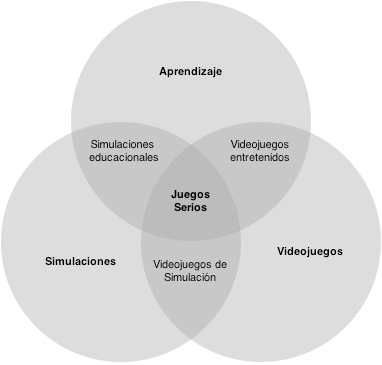
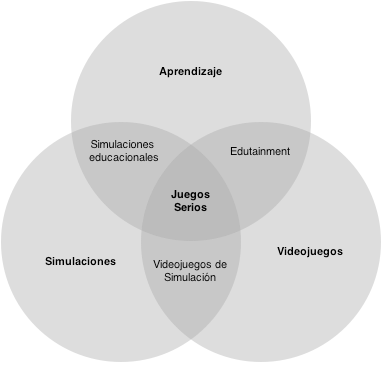
Correcciones solicitadas por el tutor al cap Juegos Serios

Changed region(s): [[0.6047, 0.3616, 0.7775, 0.4521]]

diff --git a/juegos_serios/corrientes_relacionadas.tex b/juegos_serios/corrientes_relacionadas.tex
@@ -14,24 +14,26 @@ como se observa en la figura~\ref{fig:corrientes_relacionadas}.
 \label{fig:corrientes_relacionadas}
 \end{figure}
 
-Cuando se utilizan aspectos de videojuegos con simulaciones, se obtienen videojuegos
-cuyo objetivo es entretener mientras son similares a la realidad, dentro de esta
+Cuando se utilizan aspectos de videojuegos con simulaciones, se obtienen videojuegos 
+similares a la realidad cuyo objetivo es entretener, dentro de esta
 categoría podemos encontrar juegos como \emph{Gran Turismo}; si mezclamos
 factores relacionados al aprendizaje y a las simulaciones se obtienen
 simulaciones sin interacción con el usuario que buscan mostrar o enseñar como se
-comportan distintos fenómenos físicos, sociales, etc.
+comportan distintos fenómenos físicos, sociales, etc. Una simulación educativa se 
+diferencia de un juego serio en que este último hace uso de las características y 
+tecnologías de un videojuego para enseñar algo específico. 
 
-Un simulación educativa se diferencia de un juego serio en que este último hace uso 
-de las características y tecnologías de un videojuego para enseñar algo específico. Los 
-\emph{Edutainment} pueden ser vistos como los predecesores de los juegos
-serios, los mismos son descritos en~\ref{sec:edutainment}.
+El uso de videojuegos junto con técnicas de aprendizaje da como resultado los 
+\emph{Edutainment}, estos pueden ser vistos como los predecesores de los juegos
+serios, los mismos son descritos en la sección~\ref{sec:edutainment}.
 
 %\observacion{Que hace que sea un juego serio y no una SE}
 
-Usualmente un videojuego tiene un conjunto de reglas que deben ser cumplidas para 
+
+Un juego serio tiene un conjunto de pasos que deben ser cumplidas para 
 que se considere que una partida fue jugada de manera correcta, lo que se traduce 
-en un buen desempeño del jugador, estas reglas suelen ser manejadas
-por un motor de reglas que se encarga de determinar el cumplimiento o no de las mismas.
+en un buen desempeño del jugador. Cada paso puede ser traducido a una regla
+y ser validadas por un motor de reglas. 
 
 \subsection{Simulaciones}
 
@@ -51,7 +53,7 @@ reglas hasta complejos entornos. La simulación demostró ser una herramienta mu
 encarar situaciones muy difíciles de representar en entornos completamente
 controlados y provee mecanismos para comprobar la efectividad de la herramienta. 
 
-Actualmente la simulación se utiliza más en el ámbito empresarial pues las
+Actualmente la simulación se utiliza mayormente en el ámbito empresarial pues las
 empresas son las más necesitadas de innovar en el ámbito de la enseñanza. Un
 ejemplo de esta necesidad se da, por ejemplo, en el entrenamiento de nuevos
 vendedores, es muy difícil enseñar a un vendedor como debe vender los productos
@@ -115,90 +117,43 @@ prácticas\cite{charsky:2010}.
 %\end{itemize}
 
 
-\subsection{Acciones condicionadas por eventos}
+\subsection{Motores de acciones condicionadas por eventos}
 \label{sec:eca}
 
-Un evento es la ocurrencia de un hecho en particular, y es identificado por un
-nombre y un conjunto de parámetros. Por cada acción que realiza el usuario dentro 
-de una simulación, existe un evento relacionado, por consiguiente, es razonable 
-estudiar algunos eventos para determinar si las acciones del usuario son correctas.
+Un evento es la ocurrencia de un hecho en particular. Por cada acción que realiza el usuario dentro  de una simulación, existe un evento relacionado, por consiguiente, es razonable  estudiar algunos eventos para determinar si las acciones del usuario son correctas.
 
-Para determinar si una sucesión de eventos es la correcta, se definen reglas,
-una regla es una asociación de una condición y una acción, la condición define
-si el entorno es el adecuado para realizar una acción, la cual es un
-procedimiento que realiza la lógica deseada.
+Para determinar si una sucesión de eventos es la correcta, se definen reglas, una regla es una asociación de una condición y una acción, la condición define si el entorno es el adecuado para realizar una acción, la cual es un procedimiento que realiza la lógica deseada.
 
-Las \gls{eca} son aquellas que son activadas una vez que se cumplen determinados
-eventos\cite{bailey2004event}. En las bases de datos relacionales, son conocidos
-como triggers, es decir, una base de datos relacional (u orientada a objetos) es
-un motor de reglas \gls{eca}\cite{bailey2004event,behrends2006combining}.
+Las \gls{eca} son aquellas que son activadas una vez que se cumplen determinados eventos\cite{bailey2004event}. En las bases de datos relacionales, son conocidos como triggers, es decir, una base de datos relacional (u orientada a objetos) es un motor de reglas \gls{eca}\cite{bailey2004event,behrends2006combining}.
 
-Las mismas pueden ser utilizadas para notificar que un determinado conjunto de
-eventos ha ocurrido\cite{bailey2004event}, así como servir para almacenar
-información acerca de la utilización de un determinado recurso.
+Las mismas pueden ser utilizadas para notificar que un determinado conjunto de eventos ha ocurrido\cite{bailey2004event}, así como servir para almacenar información acerca de la utilización de un determinado recurso.
 
 
-\subsubsection{Motivación}
+% \subsubsection{Motivación}
 
-Las reglas del tipo \gls{eca} permiten reaccionar a determinados eventos, en
-forma de una única regla, lo cual facilita la declaración de las
-mismas\cite{bailey2004event}.
-
-Son principalmente útiles para analizar el comportamiento en tiempo real de un
-sistema en una forma reactiva\cite{bailey2004event,de2001eca,bailey2002analysis}, 
-esta característica está impulsada principalmente por que son ejecutadas después 
-de la ocurrencia de un evento, y el entorno no es modificado, pudiendo así acceder 
-al mismo entorno que el que lanzó el evento.
+Las reglas del tipo \gls{eca} permiten reaccionar a determinados eventos, en forma de una única regla, lo cual facilita la declaración de las mismas\cite{bailey2004event}.  Son principalmente útiles para analizar el comportamiento en tiempo real de un sistema en una forma reactiva\cite{bailey2004event,de2001eca,bailey2002analysis},  esta característica está impulsada principalmente por que son ejecutadas después  de la ocurrencia de un evento, y el entorno no es modificado, pudiendo así acceder  al mismo entorno que el que lanzó el evento.
 
 
-\subsubsection{Declaración}
-
-Una \gls{eca}, se define como\cite{bailey2004event,behrends2006combining}:
-
-\begin{displayquote}
-	 Cuando ocurren una serie de \emph{eventos}, y se cumple una
-	 \emph{condición}, entonces realizar una \emph{Acción}.
-\end{displayquote}
-
-Los \emph{eventos} determinan cuando una regla debe ser activada, los mismos se
-dividen en dos categorías\cite{behrends2006combining}, primitivos y compuestos,
-los primeros son detectables, por ejemplo, cuando se inserta una jeringa, y los
-compuestos, son la combinación de uno o más
-primitivos\cite{bailey2004event,behrends2006combining}. Los eventos
-compuestos, se unen mediante:
-\begin{enumerate*}[label=\itshape\alph*\upshape)]
-\item conjunción (\emph{y}),
-\item disyunción (\emph{o}), y
-\item secuencia (\emph{entonces}).
-\end{enumerate*}
-Sin embargo, no siempre son necesarias todas las posibles combinaciones, y las
-combinaciones sencillas son más fáciles de optimizar y
-probar\cite{bailey2004event}.
-
-La \emph{condición} de una regla determina si el entorno es el necesario para que la
-regla sea activada, en esta condición el entorno que lanzó el evento está
-disponible.
-
-La \emph{acción} a ejecutar describe la lógica que debe ser ejecutada cuando se han
-lanzado los eventos y la condición de la regla se ha cumplido.
-
-\subsubsection{Modelo de ejecución}
-\label{sec:eca_ejecucion}
-
-Para ejecutar un motor de reglas del tipo \gls{eca}, se debe tener en cuenta
-principalmente dos factores, 
-\begin{enumerate*}[label=\itshape\alph*\upshape)]
-\item  Cómo se verifica el cumplimiento de cada regla, y, 
-\item  Qué ocurre cuando varias reglas son lanzadas al mismo tiempo
-\end{enumerate*}.
-
-Para ambos casos se puede tomar un enfoque \emph{inmediato}, es decir que
-inmediatamente cuando se lanza un evento, o se cumple una condición, se ejecuta
-la regla. Además existen otros dos modos de ejecución, \emph{diferido}, y
-\emph{desacoplado}, en el primero, se espera hasta que el lanzador del evento
-culmine su trabajo, y luego se ejecuta la regla, pero en la misma unidad de
-trabajo, mientras que en la ejecución desacoplada, se encolan los trabajos y
-otro hilo es el encargado de ejecutar las reglas. Estos modos están inspirados
-en las bases de datos relacionales, el modo diferido se ejecuta en la misma
-transacción, y el desacoplado, inmediatamente después de que la transacción
-termine\cite{bailey2004event}.
+%\subsubsection{Modelo de ejecución}
+%\label{sec:eca_ejecucion}
+%
+%Para ejecutar un motor de reglas del tipo \gls{eca}, se deben tener en cuenta
+%dos factores, 
+%\begin{enumerate*}[label=\itshape\alph*\upshape)]
+%\item  Cómo se verifica el cumplimiento de cada regla, y, 
+%\item  Qué ocurre cuando varias reglas son lanzadas al mismo tiempo
+%\end{enumerate*}.
+%
+%Para ambos casos se puede tomar un enfoque \emph{inmediato}, es decir que
+%inmediatamente cuando se lanza un evento, o se cumple una condición, se ejecuta
+%la regla. Además existen otros dos modos de ejecución, \emph{diferido}, y
+%\emph{desacoplado}, en el primero, se espera hasta que el lanzador del evento
+%culmine su trabajo, y luego se ejecuta la regla, pero en la misma unidad de
+%trabajo, mientras que en la ejecución desacoplada, se encolan los trabajos y
+%otro hilo es el encargado de ejecutar las reglas. Estos modos están inspirados
+%en las bases de datos relacionales, el modo diferido se ejecuta en la misma
+%transacción, y el desacoplado, inmediatamente después de que la transacción
+%termine\cite{bailey2004event}.
+%
+%El modo inmediato es ideal para la evaluación de un juego serio, 
+%pues permite un acceso completo al contexto.

diff --git a/juegos_serios/actualidad.tex b/juegos_serios/actualidad.tex
@@ -1,11 +1,11 @@
 \section{Ejemplos de juegos serios}
 
-En este apartado se darán detalles de varios casos de éxito de aplicaciones que
+En este apartado se darán detalles de varias aplicaciones que
 tienen como objetivo ayudar en el aprendizaje del usuario o jugador en algún
 tema en particular.
 
-Se presentan varios casos de éxito, donde se puede ver cómo la utilización de
-las \Gls{tic} provocaron un resultado positivo en las personas que lo
+Se presentan varios casos de éxito, donde se pueden ver cómo la utilización de
+las \Gls{tic} provocó un resultado positivo en las personas que lo
 utilizaron.
 
 \subsection{Triage Trainer}
@@ -29,13 +29,13 @@ utilizaron.
 \emph{Triage Trainer} está diseñado para formar profesionales(médicos, enfermeros, 
 paramédicos, rescatistas) que puedan participar en una escena de un incidente 
 mayor, en este caso el escenario se presenta como una explosión en una calle 
-(ver~\ref{fig:triage}). Los jugadores deben realizar un triage, es decir, evaluar 
-el grado de las lesiones de víctima, las cuales son generadas aleatoriamente, 
+(ver figura~\ref{fig:triage}). Los jugadores deben realizar un triage, es decir, evaluar 
+el grado de las lesiones de las víctimas, las cuales son generadas aleatoriamente, 
 utilizando los protocolos y controles médicos adecuados, además de priorizar a las 
 víctimas para el tratamiento. La apariencia física de cada víctima es imitada con 
 precisión como los signos vitales, los síntomas y sobre todo los patrones de tiempo 
 para el deterioro de las lesiones, es decir, la condición de una víctima cambia de 
-forma realista con el tiempo (ver~\ref{fig:triage_patient1}).
+forma realista con el tiempo (ver figura~\ref{fig:triage_patient1}).
 
 \begin{figure}[ht!]
 \centering 
@@ -73,10 +73,10 @@ jugadores\cite{education:games}.
 \item \textbf{Desarrollador:} \emph{Venture Simulations.}
 \end{itemize}
 
-En el inicio del videojuego (ver~\ref{fig:simventure_tutorial}), a los jugadores se
+En el inicio del videojuego (ver figura~\ref{fig:simventure_tutorial}), a los jugadores se
 les brinda informaciones y antecedentes para que que se ubiquen en escena. Ellos
-deben empezar a dirigir su propio negocio en su casa de fabricación y venta de
-computadoras, mientras deben mantener un trabajo de tiempo completo
+deben empezar a dirigir su propio negocio de fabricación y venta de
+computadoras en sus casa, mientras deben mantener un trabajo de tiempo completo
 independiente. El videojuego lleva a los jugadores a la ejecución de un negocio en su
 propia casa y a la extensión del mismo a más locales, lo que requiere
 contratación de personal. Los jugadores son capaces de avanzar en el videojuego a
@@ -113,7 +113,7 @@ juntos\cite{education:games}.
 \section{Actualidad}
 
 La relación de los videojuegos con el aprendizaje surge en los años $80$ y ha llegado
-hasta la actualidad en plena efervescencia, siendo aplicados en casi todos los
+hasta la actualidad en plena efervescencia, siendo aplicados en varios 
 ámbitos de la educación tanto formal como no formal. Los juegos serios para el
 entrenamiento de habilidades se pueden considerar una evolución de las técnicas
 de entrenamiento basadas en la realidad virtual que se desarrollaron en los años
@@ -121,8 +121,7 @@ $90$ y que en la actualidad se han transformado, por su potencial motivacional,
 de simulaciones puras a juegos\cite{videojuegos:gonzaleztardon}.
 
 Al ser un área de creciente interés, existe una gran cantidad de conferencias
-cuyo objetivo es el estudio de los juegos serios en la educación, se presenta un
-resumen de algunas de ellas:
+cuyo objetivo es el estudio de los juegos serios en la educación, a continuación se presenta un resumen de algunas de ellas:
 
 \begin{itemize}
 \item \textbf{Games beyond Entertainment Week}: es una serie de conferencias
@@ -139,7 +138,7 @@ resumen de algunas de ellas:
 \item \textbf{Gaming and Learning Conference}: es una conferencia dedicada al
     estudio y aplicación de los juegos serios, incluye una presentación donde
     los desarrolladores pueden mostrar sus productos. Se interesa además en
-    potenciales inversores para el desarrollo de videojuegos, así como a
+    potenciales inversores para el desarrollo de videojuegos, así como en 
     desarrolladores, investigadores y jugadores\cite{gala}.
 \item \textbf{Serious Play Conference}: es una conferencia dedicada a expertos
     con poder de decisión sobre organizaciones gubernamentales, el foco
@@ -154,9 +153,7 @@ ejemplo, la \emph{DiGRA} (\textit{Digital Games Research Association}), se
 centra en el desarrollo y la investigación de los videojuegos en general, pero
 se han presentado numerosos artículos relacionados a  los juegos serios; la
 \emph{Vs-Games}, que trata sobre entornos virtuales y videojuegos con  aplicaciones
-más allá del entretenimiento.
-
-Estas conferencias abarcan diferentes áreas o ámbitos de aplicación de los
+más allá del entretenimiento. Estas conferencias abarcan diferentes áreas o ámbitos de aplicación de los
 juegos serios, que van desde lo militar hasta el cuidado de la salud.
 
 

diff --git a/juegos_serios/desarrollo.tex b/juegos_serios/desarrollo.tex
@@ -1,11 +1,11 @@
-\section{Desarrollo de Juegos serios}
+\section{Desarrollo de juegos serios}
 \label{sec:desarrollo}
 
 Una vez definido lo que es un juego serio, queda la tarea de definir cómo
-realizar uno, qué factores deben ser tomados en cuenta y cómo encarar los
-problemas comunes con los que se enfrenta un diseñador de juegos serios.
+realizar uno, incluyendo qué factores deben ser tomados en cuenta durante su desarrollo.
+% Esto hacemos/ esto de los problema comunes? wtf no me acuerdo de haber leido nunca esto
 
-Según~\cite{education:games} un buen juego serio debe cumplir los siguientes
+Según~\cite{education:games} un juego serio debe cumplir los siguientes
 tres criterios:
 
 \begin{itemize}
@@ -46,7 +46,7 @@ dimensiones, las cuales son\cite{education:games}:
     lecciones.
 \end{itemize}
 
-Estas dimensiones no pueden ser consideradas individualmente, todas estas
+Estas dimensiones no pueden ser consideradas individualmente, todas están
 relacionadas  como se muestra en el figura~\ref{fig:desarrollo_dimensiones}.
 
 \begin{figure}[H]
@@ -125,8 +125,8 @@ utilizar los objetivos y la visión de la misma.
     por ejemplo, en el ámbito académico se puede contar con un profesor experto
     en el dominio.
 
-Es importante realizar la pregunta \emph{¿Que nivel de detalle es necesario?:},
-para así definir que contenido incluir, y que factores se deben analizar.
+Es importante realizar la pregunta \emph{¿Qué nivel de detalle es necesario?},
+para así definir qué contenido incluir, y qué factores se deben analizar.
 
 Además es necesario investigar las acciones que se podrían realizar dentro del
 videojuego, cómo se desenvolverá el jugador, por cada acción definida, se deben
@@ -148,10 +148,13 @@ jugador y el entorno de acuerdo a este tiempo.
     período de adaptación del jugador, lo que depende de la intuitividad del
     videojuego, este tiempo debe ser analizado por separado a la hora de realizar un
     análisis de los resultados.
-
-Si el videojuego tiene una duración reducida, se tienen que analizar mecanismos para
-mostrar los resultados de las decisiones a largo plazo, además de como mostrar
-los resultados de las acciones de corto plazo.
+    
+    Se debe definir la duración de las partidas y la forma en la que 
+    se mostrarán los resultados de las acciones.
+% Esto es jodido por que no hicimos, osea mmm no se
+%Si el videojuego tiene una duración reducida, se tienen que analizar mecanismos %para
+%mostrar los resultados de las decisiones a largo plazo, además de como mostrar
+%los resultados de las acciones de corto plazo.
 
 \item \textbf{Indicadores:} es todo aquello que muestre información relevante al
     jugador acerca de su estado, ejemplos de este tipo de indicadores son el
@@ -197,10 +200,10 @@ en la estética, la retroalimentación y el estado del jugador.
 \item \textbf{Evaluación:} durante el desarrollo del juego serio, se deben
     realizar varias sesiones de evaluación, por ejemplo, con los responsables o
     expertos y miembros de la audiencia objetivo. Así mismo, se deben realizar
-    evaluaciones con los grupos de interés las cuales se centra en la adaptación
+    evaluaciones con los grupos de interés las cuales se centran en la adaptación
     del videojuego (usabilidad). 
 
-La primera se centra en la validación del modelo de la simulación
+La primera evaluación mencionada se centra en la validación del modelo de la simulación
 (refinamiento), mientras que la segunda evaluación sirve para probar el videojuego en
 un escenario (parecido al final) y evaluar los aspectos relacionados con el
 proceso de aprendizaje.  

diff --git a/juegos_serios/aplicacion.tex b/juegos_serios/aplicacion.tex
@@ -1,0 +1,44 @@
+\section{Áreas de aplicación}
+\label{sec:areas_aplicacion}
+
+A continuación se definen las áreas de utilización  más frecuentes de los juegos
+serios, son en estas áreas donde los juegos serios demuestran su fortalezas.
+
+\begin{itemize}
+
+\item \textbf{Militar}: durante más de $30$ años los videojuegos han sido
+    reconocidos como herramientas factibles en el entrenamiento de militares, es
+    más, los primeros videojuegos se basaban principalmente en lucha o combate.
+    En $1996$ fue lanzado un videojuego llamado \emph{Marine Doom} en donde la
+    tarea de los jugadores era el aprendizaje de formas de ataque, conservación
+    de municiones, comunicación eficaz, 
+    entre otros. De esta manera tuvo lugar una forma de entrenamiento más
+    atractivo, sin el costo, dificultad, riesgos e inconvenientes que implica el
+    mismo entrenamiento en un entorno real. Se pueden crear situaciones
+    que en el mundo real son muy difíciles de replicar y permiten
+    la repetición hasta alcanzar la maestría\cite{education:games}.
+
+\item \textbf{Salud}: los juegos
+    de salud se utilizan para la formación de profesionales basada en la
+    simulación. En $2008$ el Centro de Simulación \emph{Hollier} en
+    \emph{Birmingham}, Reino Unido, realizó una prueba que permitió a médicos
+    jóvenes experimentar y entrenar para diversos escenarios médicos a través de
+    maniquíes virtuales como pacientes, de este modo el aprendizaje se da por la
+    experiencia. Con respecto a los videojuegos en el área de la salud
+    \emph{Roger D. Smith} en su disertación, realizó una comparación entre la
+    enseñanza tradicional y la formación mediante realidad virtual y el uso de
+    herramientas basadas en la tecnología de videojuegos en cuanto a la cirugía
+    laparoscópica. Como conclusión afirmó que lo último era más barato, requería
+    menos tiempo y que permitió menos errores médicos cuando los médicos se
+    presentaban en una cirugía real debido a, entre otras cosas, la posibilidad
+    de repetición de la experiencia sin riesgo alguno\cite{education:games}. 
+
+\item \textbf{Juegos corporativos}: este tipo de videojuegos se han utilizado
+    para la selección de personal, la mejora de comunicación entre los
+    directivos y su personal de confianza, y la formación de nuevos empleados.
+    Un ejemplo de estos videojuegos es el \emph{INNOV8} de \emph{IBM} que ayuda
+    en el entrenamiento de los estudiantes acerca de la gestión de procesos de
+    negocios. Los juegos serios pueden ser utilizados incluso para elaborar
+    planes de negocios\cite{education:games}. 
+
+\end{itemize}

diff --git a/juegos_serios/main.tex b/juegos_serios/main.tex
@@ -40,22 +40,16 @@ definiciones que permiten entender mejor qué es un juego serio son:
     \item Son los videojuegos que poseen pedagogía incluida, además de algún tipo de
         evaluación, ya sea interna o externa, y el contenido que se desea
         enseñar\cite{damien:sg,sg:aoverview}.
-    \item Videojuegos que provocan que el usuario se implique con el videojuego, y
-        contribuyen al logro de un propósito definido que no es el de
-        entretener\cite{sg:aoverview}
+        
+    \item Videojuegos que involucran al usuario con la actividad, y contribuyen al logro de un propósito definido que no es el de entretener\cite{sg:aoverview}.
 \end{itemize}
 
-Teniendo en cuenta estas definiciones, se considera a los juegos serio como 
+Teniendo en cuenta estas definiciones, se considera a un juego serio como 
 \emph{Un videojuego que posee un propósito educacional explícito, cuyo objetivo 
 principal es el de educar y utiliza conceptos lúdicos para involucrar y entretener 
-al usuario}. Para un mejor entendimiento de lo que es un juego serio, en este 
-capítulo se describen sus características incluyendo sus ventajas y desafíos.
+al usuario}. 
 
-Luego se presenta un modelo de desarrollo que fue utilizado en el desarrollo de
-un juego serio denominado \textit{Living Forest}, donde se incluyen los aspectos
-más relevantes y el orden en el que deben ser considerados. Por último, se describe 
-la actualidad de los juegos serios, como las áreas donde
-se utilizan, las principales conferencias, y ejemplos de desarrollos recientes. 
+En este capítulo, para un mejor entendimiento de lo que es un juego serio, se describen sus características, ventajas y desafíos. Luego se presenta un modelo de desarrollo que fue utilizado en un juego serio denominado \textit{Living Forest}. Por último, se describe la actualidad de los juegos serios, incluyendo las áreas de aplicación, las principales conferencias y ejemplos de desarrollos recientes. 
 
 \input{juegos_serios/caracteristicas}
 \input{juegos_serios/aplicacion}
